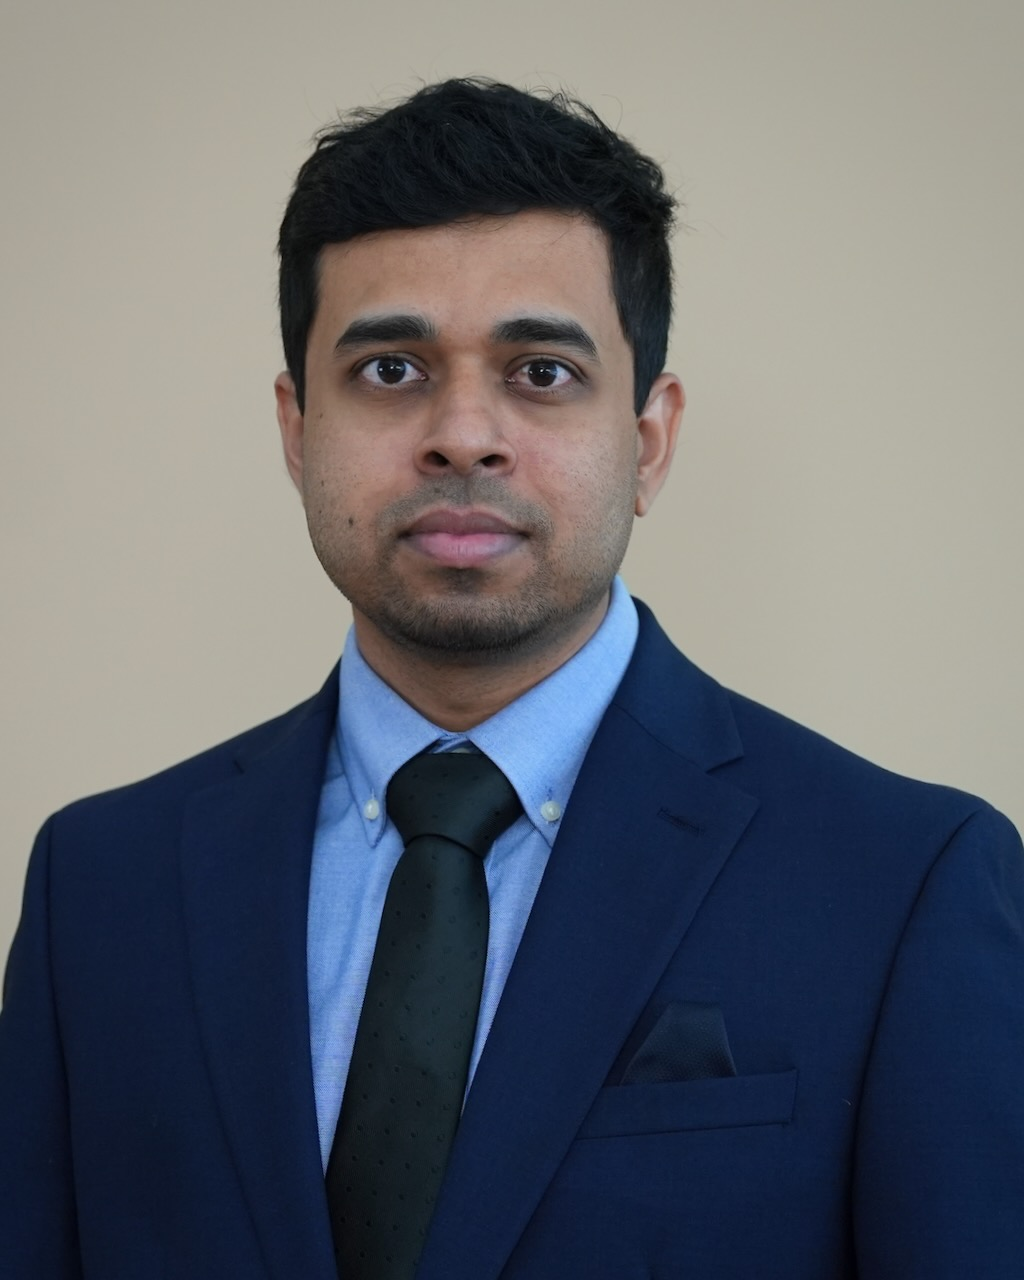
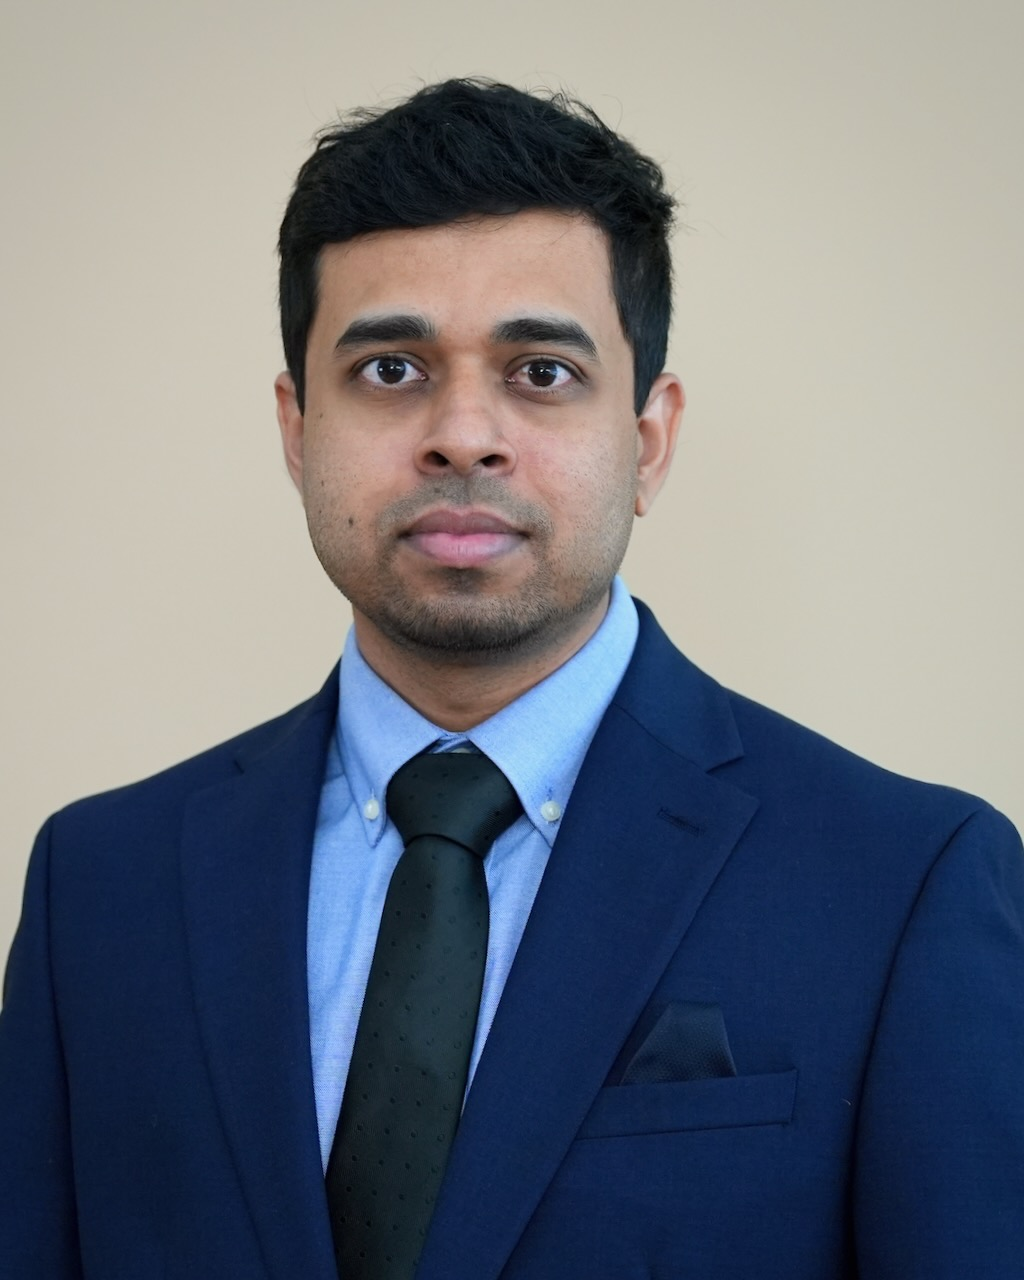
Updated about

diff --git a/index.html b/index.html
@@ -944,7 +944,7 @@
 
       
       
-      <img class="avatar avatar-square" src="/authors/admin/avatar_huae2b3d9940587b4cad154eb99f41450c_165889_200x220_fill_q100_lanczos_center.jpeg" alt="Sumon Biswas">
+      <img class="avatar avatar-square" src="/authors/admin/avatar_huae2b3d9940587b4cad154eb99f41450c_183551_200x220_fill_q100_lanczos_center.jpeg" alt="Sumon Biswas">
       
 
       <div class="portrait-title">
